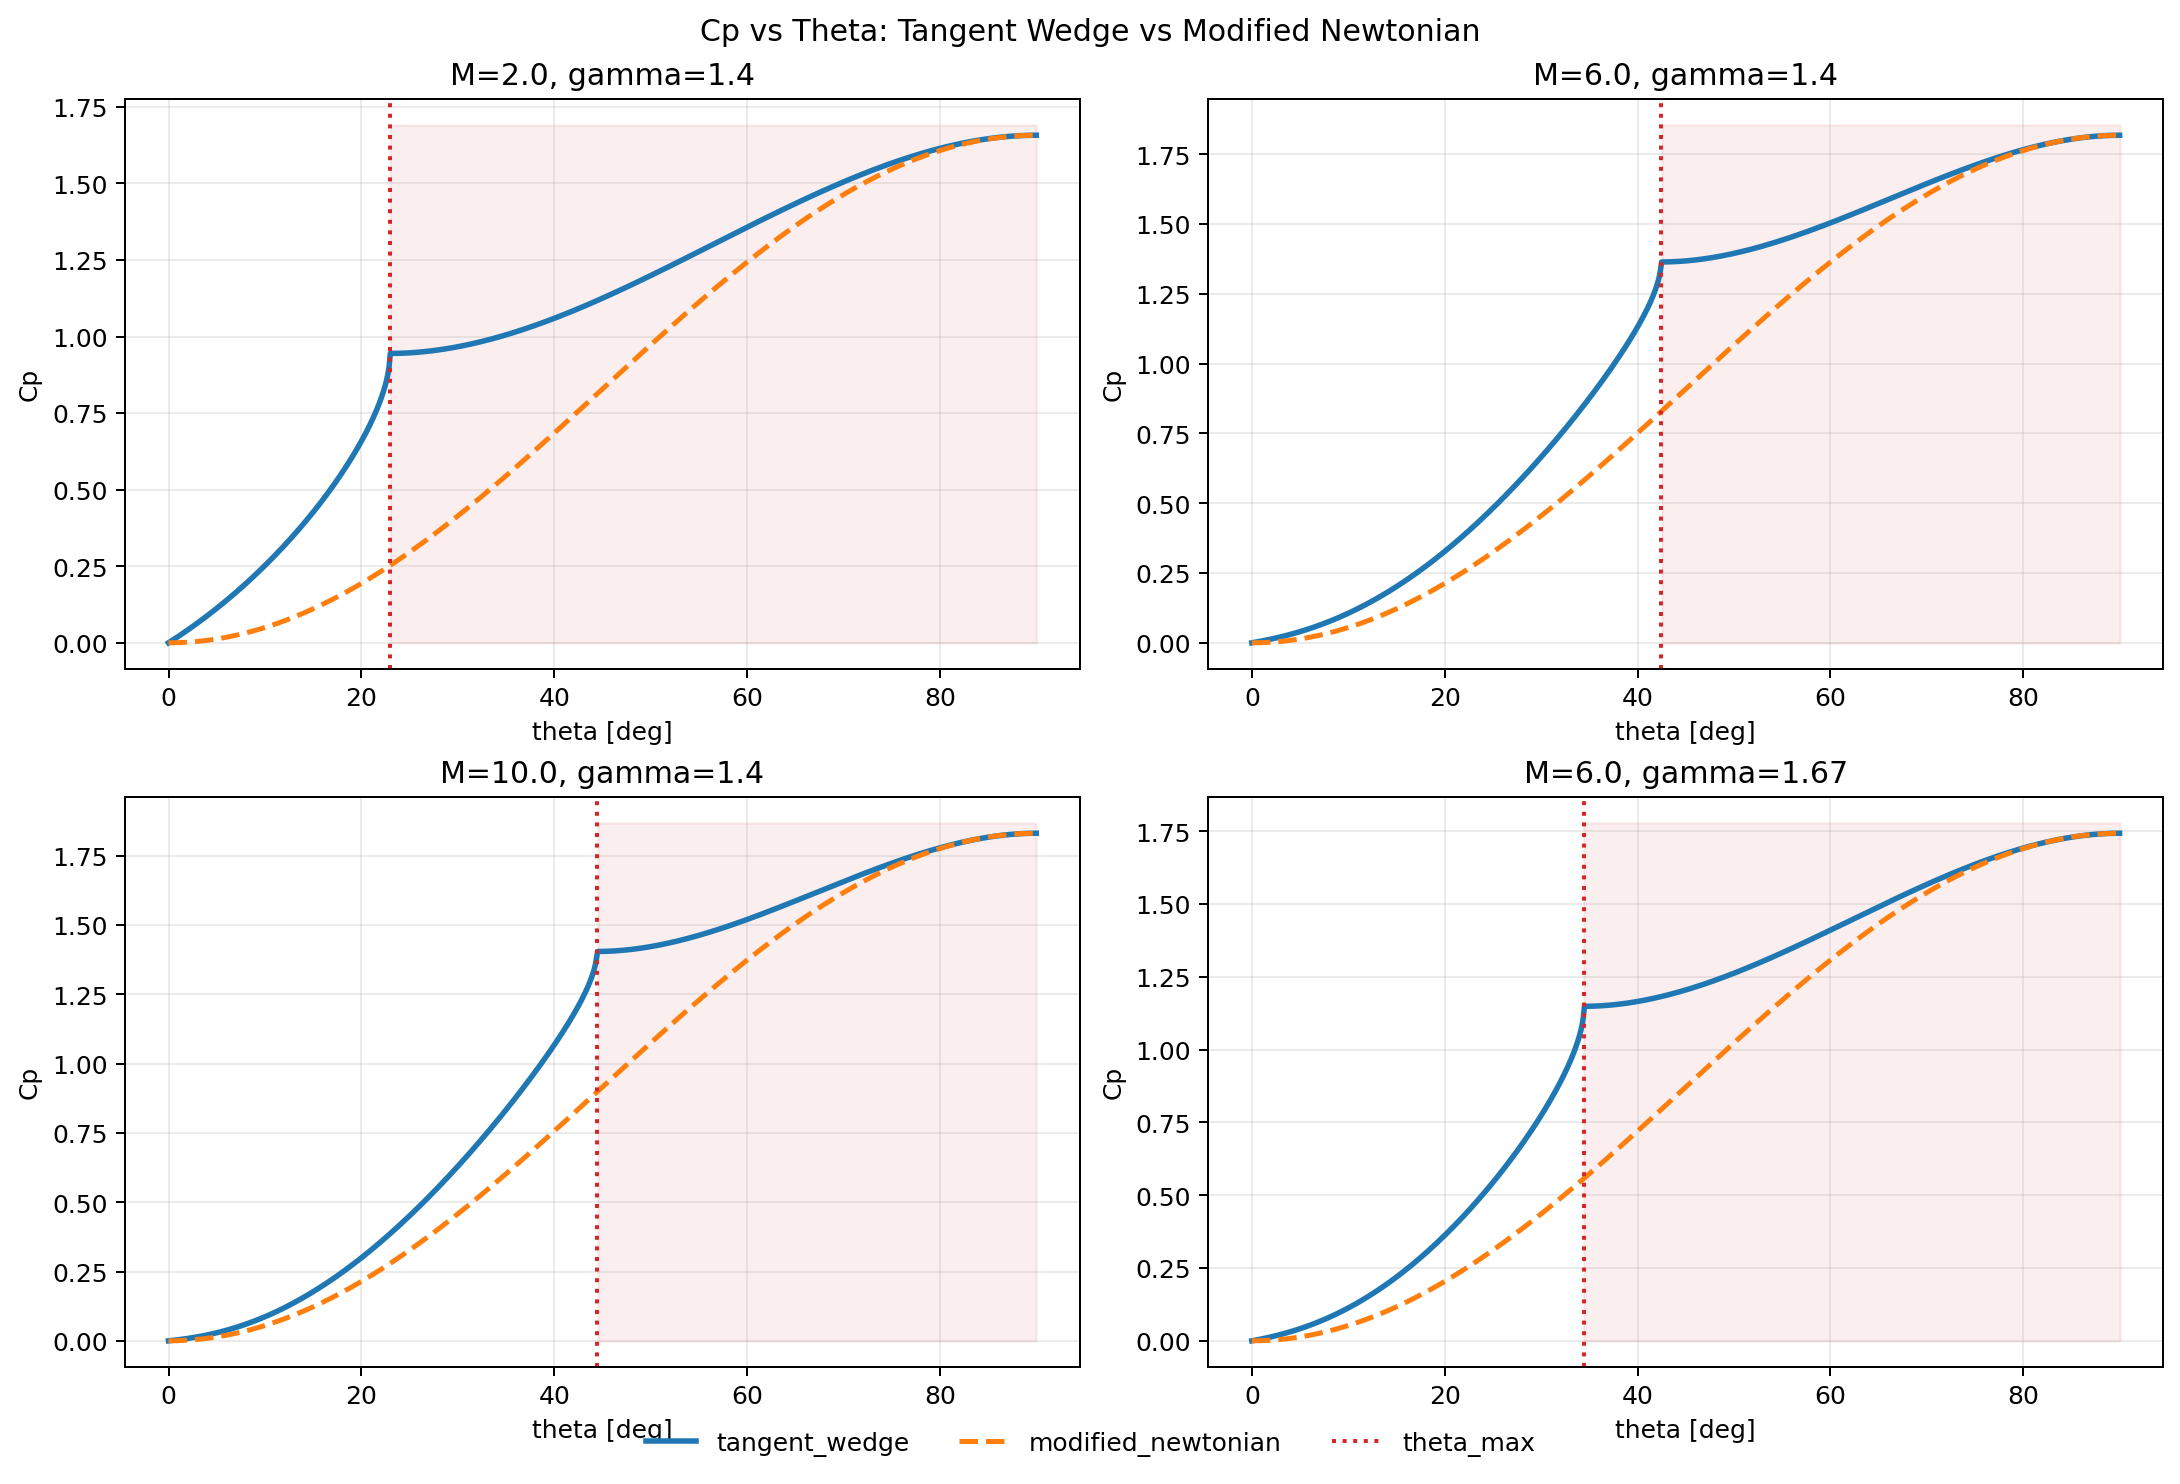
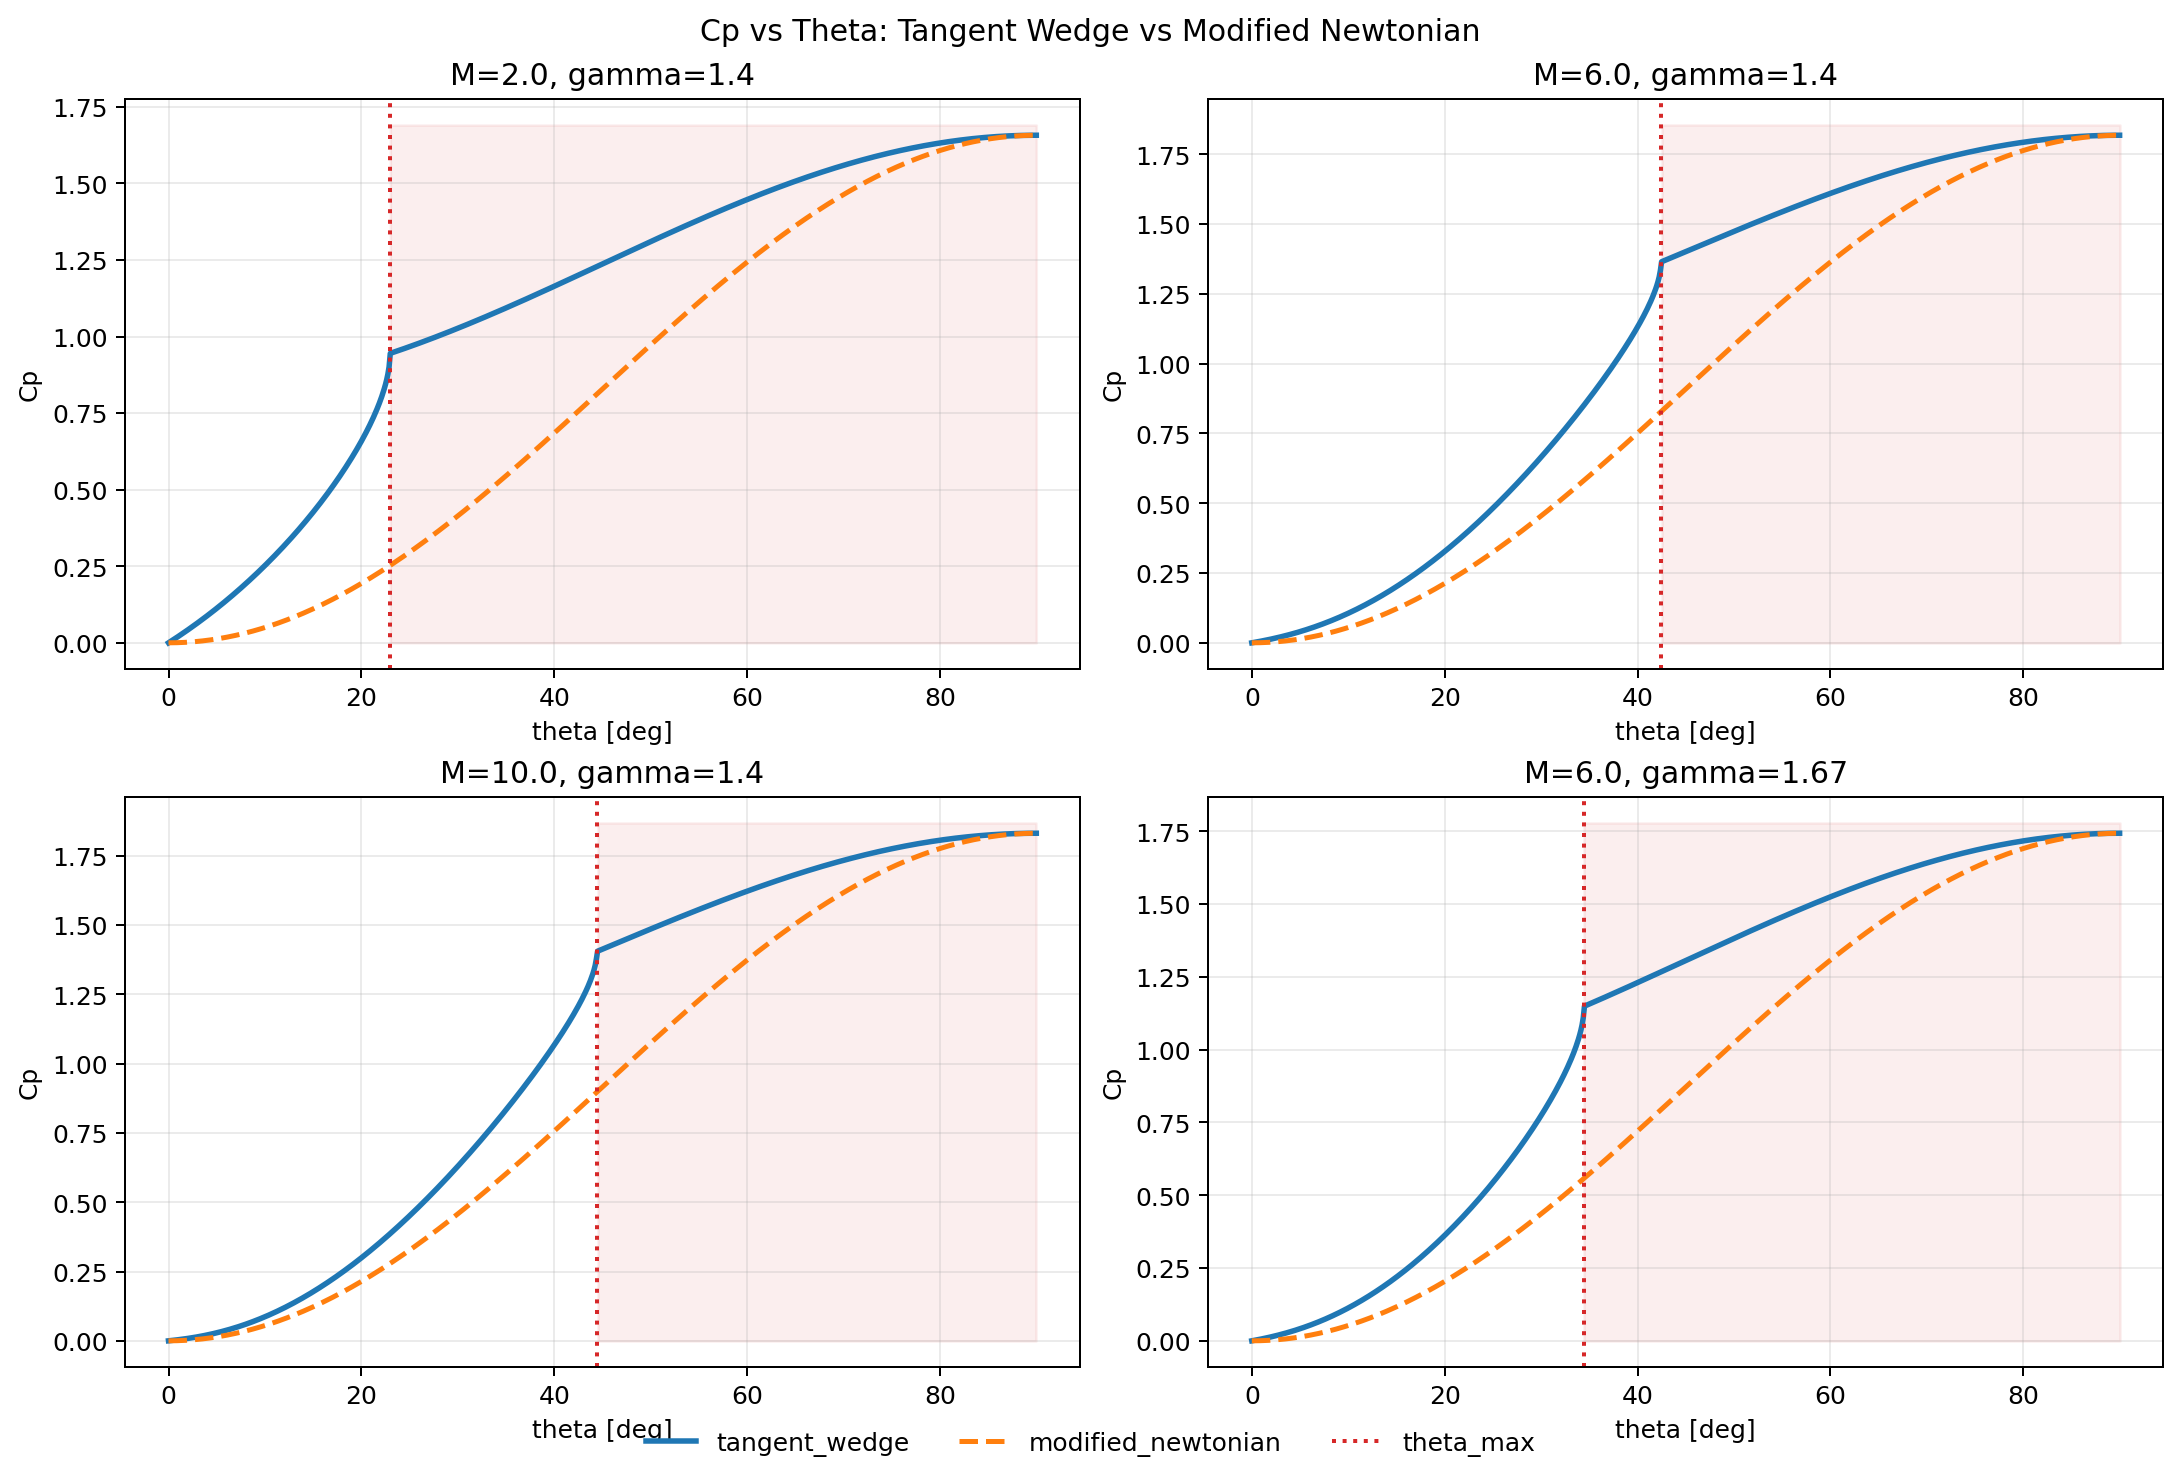
Use shifted modified-Newtonian for detached tangent-wedge

diff --git a/src/newtsolver/core/panel_core.py b/src/newtsolver/core/panel_core.py
@@ -259,16 +259,19 @@ def tangent_wedge_pressure_coefficient(
     cap = float(cp_cap) if cp_cap is not None else modified_newtonian_cp_max(Mach=M, gamma=g)
     beta = _weak_oblique_shock_beta(Mach=M, gamma=g, theta=theta)
     if beta is None:
-        # Detached regime: smoothly bridge from attached-limit Cp(theta_max)
-        # to Cp_cap at theta=90 deg.
+        # Detached regime: use a shifted modified-Newtonian curve that matches
+        # Cp(theta_max)=Cp_crit and Cp(90deg)=Cp_cap.
         theta_max, cp_crit_raw = _tangent_wedge_detach_limit(M, g)
         cp_crit = min(max(cp_crit_raw, 0.0), cap)
         if theta <= theta_max:
             return cp_crit
-        denom = max(0.5 * math.pi - theta_max, 1e-12)
-        x = (theta - theta_max) / denom
-        x = min(max(x, 0.0), 1.0)
-        w = x * x * (3.0 - 2.0 * x)  # smoothstep
+        s = math.sin(theta)
+        s2 = s * s
+        s0 = math.sin(theta_max)
+        s0_2 = s0 * s0
+        denom = max(1.0 - s0_2, 1e-12)
+        w = (s2 - s0_2) / denom
+        w = min(max(w, 0.0), 1.0)
         cp = cp_crit + (cap - cp_crit) * w
         return min(max(cp, 0.0), cap)
 

diff --git a/tests/test_panel_core.py b/tests/test_panel_core.py
@@ -121,6 +121,28 @@ class TestPanelCore(unittest.TestCase):
         )
         self.assertGreaterEqual(cp_after + 1e-12, cp_before)
 
+    def test_tangent_wedge_detached_uses_shifted_modified_newtonian(self):
+        mach = 2.0
+        gamma = 1.4
+        cp_cap = modified_newtonian_cp_max(Mach=mach, gamma=gamma)
+        theta_max, cp_crit = _tangent_wedge_detach_limit(mach, gamma)
+        theta = math.radians(40.0)
+        self.assertGreater(theta, theta_max)
+
+        cp = tangent_wedge_pressure_coefficient(
+            Mach=mach,
+            gamma=gamma,
+            deltar=theta,
+            cp_cap=cp_cap,
+        )
+
+        s2 = math.sin(theta) ** 2
+        s0_2 = math.sin(theta_max) ** 2
+        w = (s2 - s0_2) / max(1.0 - s0_2, 1e-12)
+        w = min(max(w, 0.0), 1.0)
+        expected = cp_crit + (cp_cap - cp_crit) * w
+        self.assertAlmostEqual(cp, expected, places=12)
+
     def test_tangent_wedge_windward_generates_force(self):
         v = newtonian_dC_dA_vector(
             Vhat=np.array([1.0, 0.0, 0.0]),

diff --git a/README.md b/README.md
@@ -109,7 +109,7 @@ Flow input rules:
 - `windward_eq`
   - `newtonian` (default): `Cp = 2 * (n_in·Vhat)^2` on windward faces.
   - `modified_newtonian`: `Cp = Cp_max(Mach, gamma) * (n_in·Vhat)^2` on windward faces.
-  - `tangent_wedge`: oblique-shock tangent-wedge compression model (`Mach > 1`) using `Mach`/`gamma`; detached cases smoothly bridge from `Cp(theta_max)` to `Cp_max` at `theta=90 deg`.
+  - `tangent_wedge`: oblique-shock tangent-wedge compression model (`Mach > 1`) using `Mach`/`gamma`; detached cases use a shifted modified-Newtonian mapping so `Cp(theta_max)` and `Cp(90 deg)=Cp_max` are both matched.
 - `leeward_eq`
   - `shield` (default): leeward contribution is forced to `Cp = 0`.
   - `prandtl_meyer`: applies Prandtl-Meyer expansion pressure from freestream `Mach`/`gamma` and local deflection (`Cp <= 0`).
@@ -131,7 +131,7 @@ Model behavior:
 |---|---|---|
 | windward | `newtonian` | Simple impact-pressure model (`Cp ~ sin^2(delta)`), robust baseline. |
 | windward | `modified_newtonian` | Same shape as Newtonian, but scaled by `Cp_max(Mach,gamma)` (strong-shock corrected stagnation cap). |
-| windward | `tangent_wedge` | Uses weak oblique-shock relation for compression; detached regime smoothly transitions from attached-limit `Cp` to `Cp_max`. |
+| windward | `tangent_wedge` | Uses weak oblique-shock relation for compression; detached regime uses shifted modified-Newtonian continuation matching `Cp(theta_max)` and `Cp(90 deg)=Cp_max`. |
 | leeward | `shield` | No suction contribution (`Cp=0`), conservative and stable default. |
 | leeward | `prandtl_meyer` | Isentropic expansion-based suction (`Cp<=0`) using `Mach` and `gamma`; physically richer for expansion surfaces. |
 

diff --git a/docs/verification/cp_theta_tangent_wedge_vs_modified_newtonian.md b/docs/verification/cp_theta_tangent_wedge_vs_modified_newtonian.md
@@ -17,6 +17,8 @@ Output image (not tracked by git):
 - `outputs/cp_theta_tangent_wedge_vs_modified_newtonian.png`
 - tracked doc image: `docs/assets/cp_theta_tangent_wedge_vs_modified_newtonian.png`
 
+## Figure
+
 ![Cp vs Theta: Tangent Wedge vs Modified Newtonian](../assets/cp_theta_tangent_wedge_vs_modified_newtonian.png)
 
 ## Conditions
@@ -27,7 +29,9 @@ Output image (not tracked by git):
 ## Current Detached Handling
 
 - `theta <= theta_max`: tangent-wedge attached solution
-- `theta > theta_max`: smooth transition from `Cp(theta_max)` to `Cp_cap` at `theta=90 deg`
+- `theta > theta_max`: shifted modified-Newtonian continuation
+  - `Cp(theta_max)=Cp_crit`
+  - `Cp(90 deg)=Cp_cap`
 
 ## Key Observations
 
